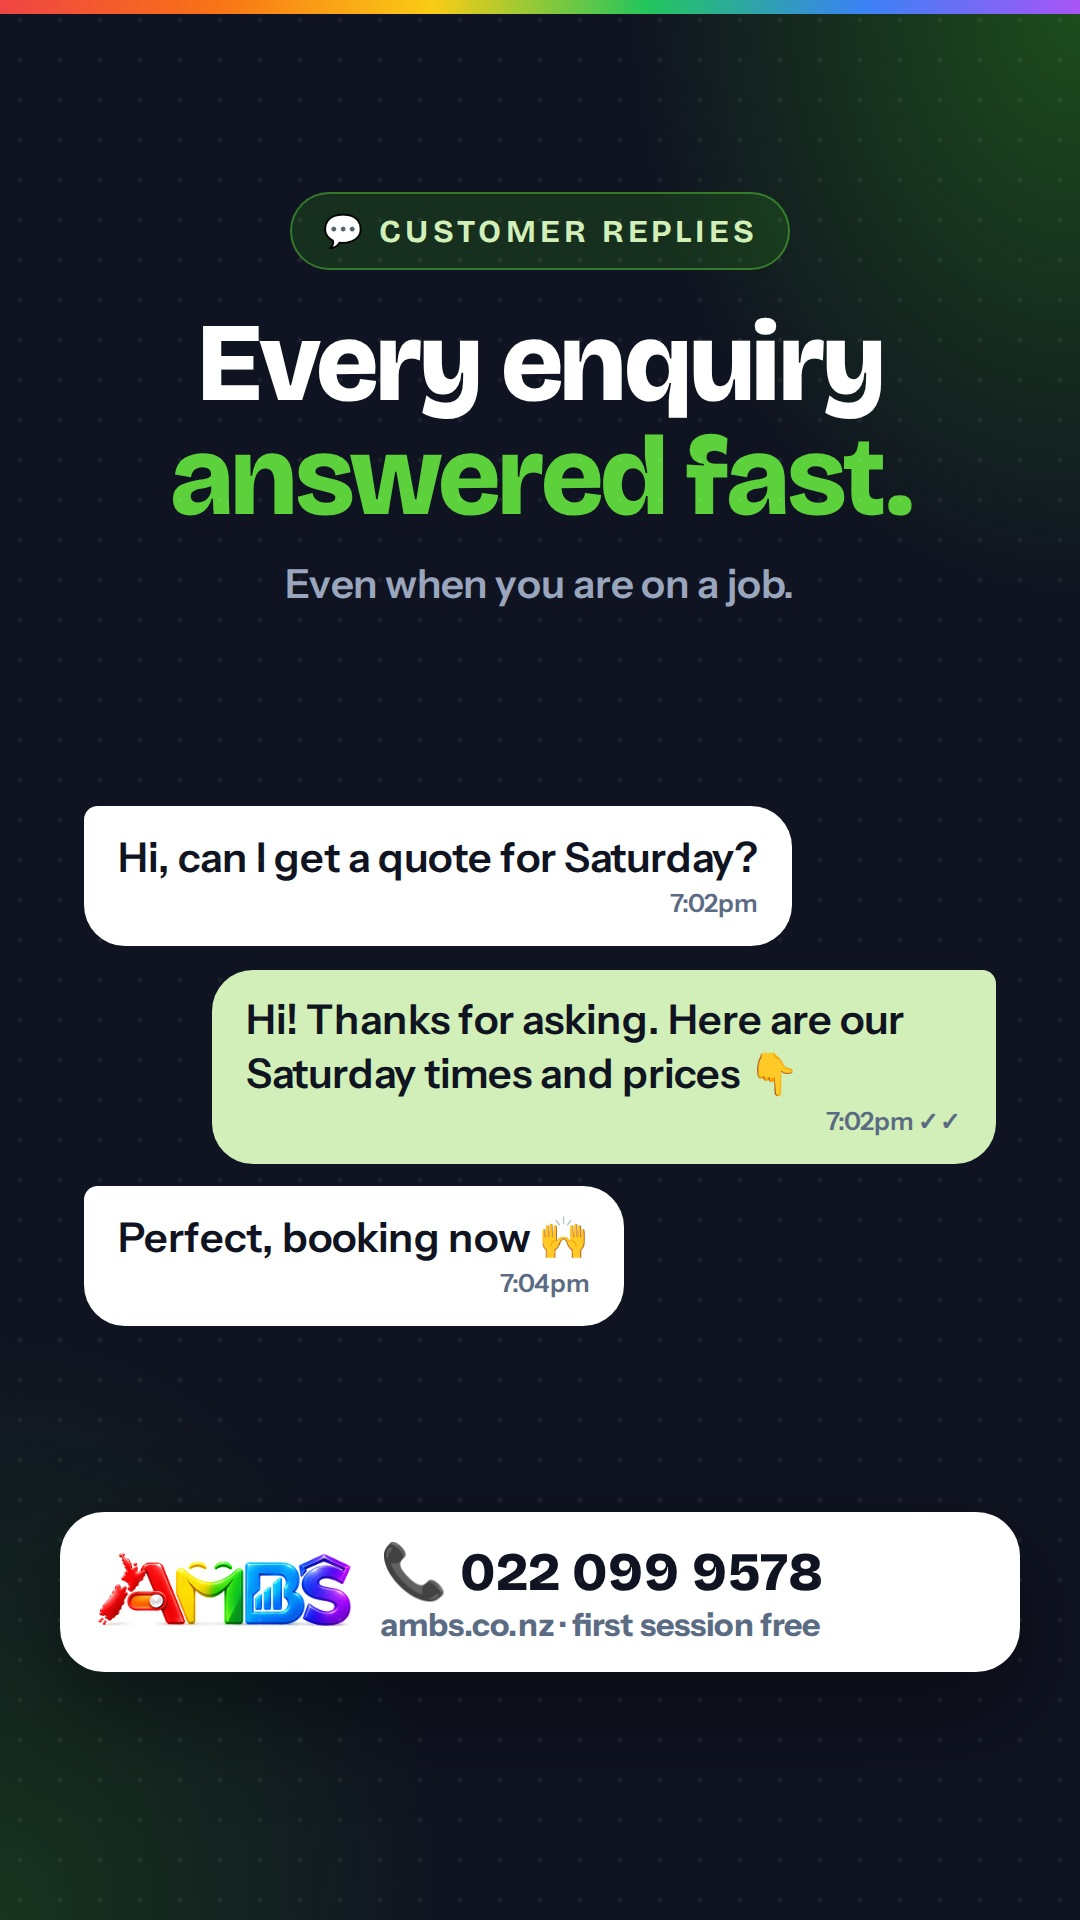
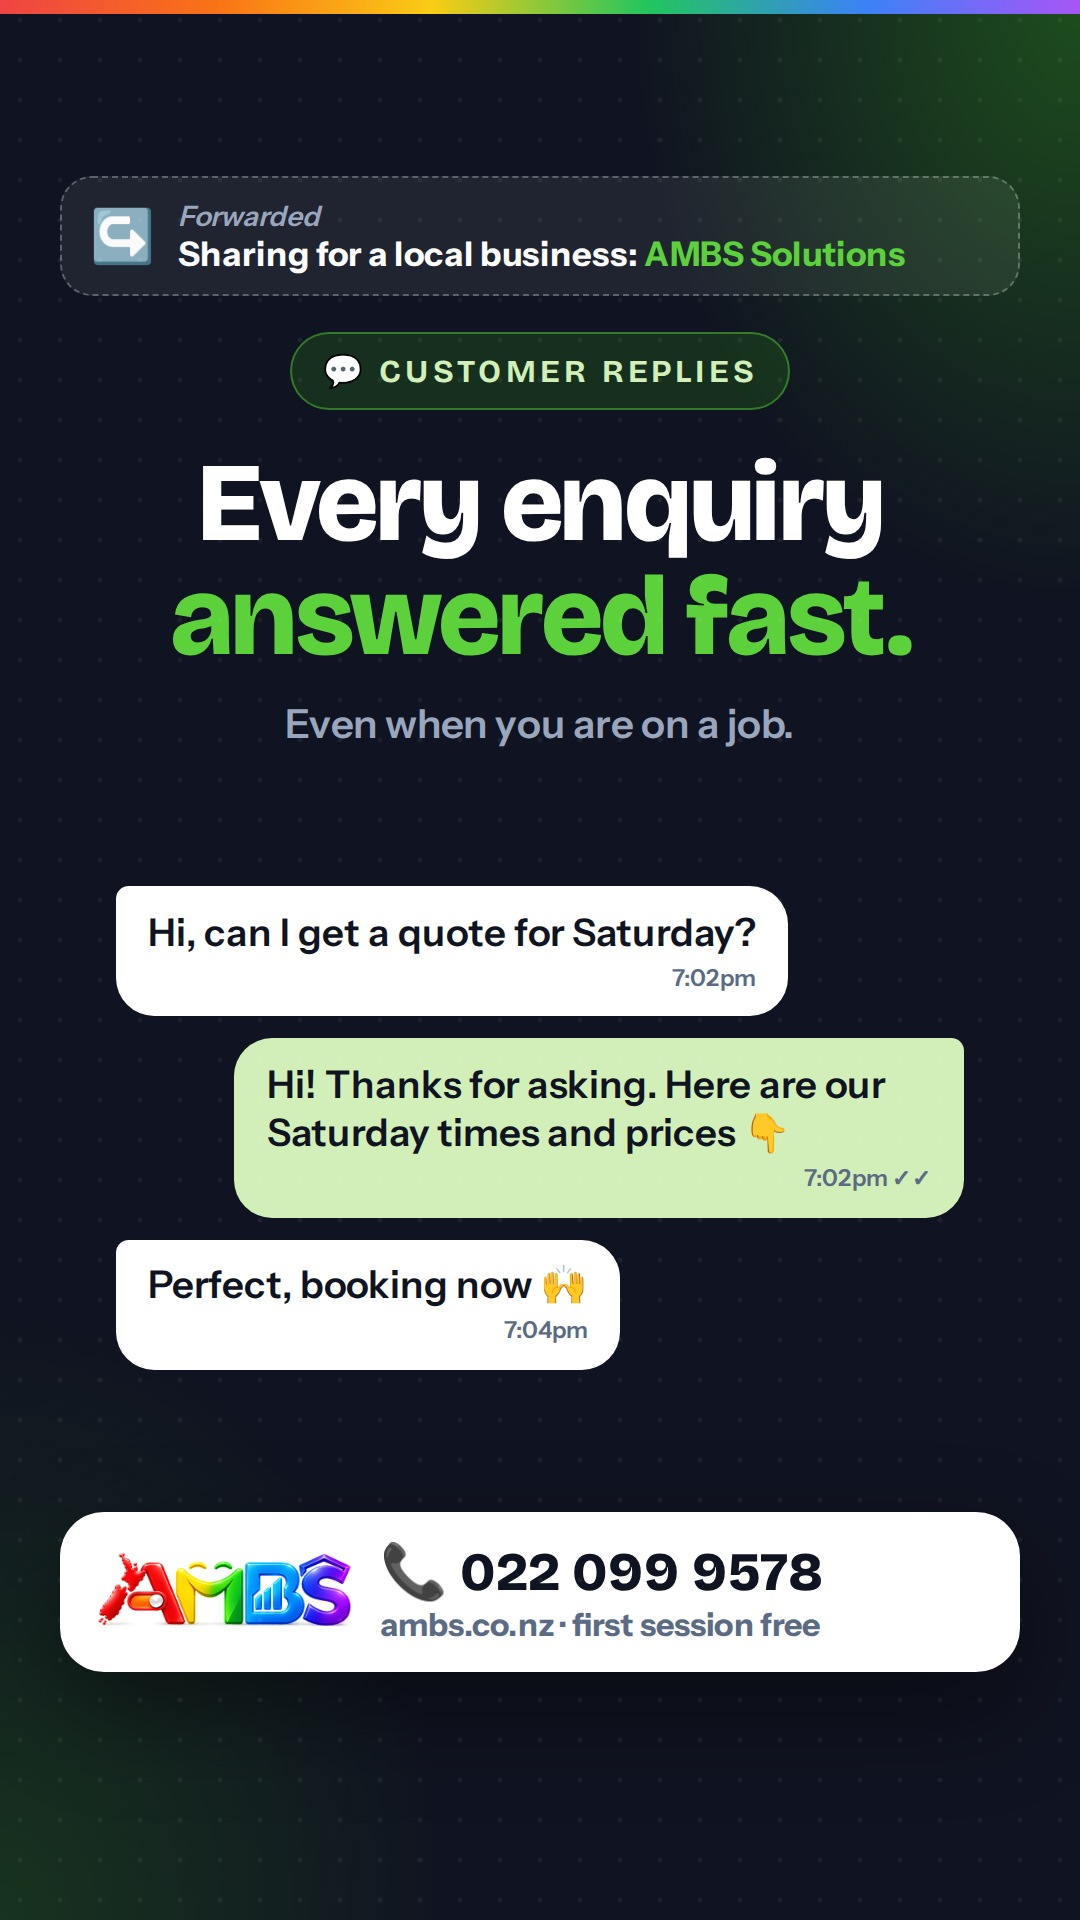
Service statuses: add 'Forwarded · sharing for a local business' label
Claude-Session: https://claude.ai/code/session_01UEFq6Row7p6wmTAvf3EyaN

Changed region(s): [[0.0611, 0.375, 0.9472, 0.7188], [0.0611, 0.0938, 0.8556, 0.3438]]

diff --git a/marketing-videos/posters/_svc.css b/marketing-videos/posters/_svc.css
@@ -13,3 +13,13 @@ h1 { margin-top: 18px; font-size: 56px; }
 .mock { background: #fff; color: var(--ink); border-radius: 20px; box-shadow: 0 18px 44px rgba(0,0,0,.45); text-align: left; }
 .ok { color: #1f6b10; background: var(--soft); font-weight: 700; border-radius: 999px; padding: 4px 10px; font-size: 13px; white-space: nowrap; }
 .vis > * { zoom: 1.14; } .vis > .ph { zoom: 1.04; }
+/* "Forwarded" label like WhatsApp's own, so it is clear the sharer is passing on another business's message */
+#frame { padding-top: 88px; }
+.fwd { width: 100%; display: flex; align-items: center; gap: 12px; padding: 10px 14px; border-radius: 16px; background: rgba(255,255,255,.07);
+  border: 1px dashed rgba(255,255,255,.28); text-align: left; margin-bottom: 18px; }
+.fwd .ar { font-size: 26px; color: var(--mu); line-height: 1; }
+.fwd i { display: block; font-size: 14px; color: var(--mu); font-weight: 600; }
+.fwd b { display: block; font-size: 17px; font-weight: 700; color: #fff; }
+.fwd b span { color: var(--gl); }
+.vis { margin-top: 18px; }
+.vis > * { zoom: 1.06; } .vis > .ph { zoom: .96; }

diff --git a/marketing-videos/posters/21c-svc-bookings.html b/marketing-videos/posters/21c-svc-bookings.html
@@ -12,6 +12,7 @@
 <div id="frame">
   <div class="stripe"></div>
 
+  <div class="fwd"><div class="ar">↪</div><div><i>Forwarded</i><b>Sharing for a local business: <span>AMBS Solutions</span></b></div></div>
   <div class="pill hd">📅 BOOKINGS &amp; REMINDERS</div>
   <h1 class="hd">Bookings in.<br><em>Fewer no‑shows.</em></h1>
   <div class="lead">Customers book online. Reminders go out on their own.</div>

diff --git a/marketing-videos/posters/21b-svc-invoices.html b/marketing-videos/posters/21b-svc-invoices.html
@@ -11,6 +11,7 @@
 <div id="frame">
   <div class="stripe"></div>
 
+  <div class="fwd"><div class="ar">↪</div><div><i>Forwarded</i><b>Sharing for a local business: <span>AMBS Solutions</span></b></div></div>
   <div class="pill hd">🧾 QUOTES &amp; INVOICES</div>
   <h1 class="hd">Invoices that <em>send themselves.</em></h1>
   <div class="lead">Created, sent and followed up automatically.</div>

diff --git a/marketing-videos/posters/21e-svc-apps.html b/marketing-videos/posters/21e-svc-apps.html
@@ -10,6 +10,7 @@
 <div id="frame">
   <div class="stripe"></div>
 
+  <div class="fwd"><div class="ar">↪</div><div><i>Forwarded</i><b>Sharing for a local business: <span>AMBS Solutions</span></b></div></div>
   <div class="pill hd">📱 STAFF &amp; CUSTOMER APPS</div>
   <h1 class="hd">Your own app on <em>every phone.</em></h1>
   <div class="lead">Jobs, photos and approvals in one place.</div>

diff --git a/marketing-videos/posters/21a-svc-websites.html b/marketing-videos/posters/21a-svc-websites.html
@@ -14,6 +14,7 @@
 <div id="frame">
   <div class="stripe"></div>
 
+  <div class="fwd"><div class="ar">↪</div><div><i>Forwarded</i><b>Sharing for a local business: <span>AMBS Solutions</span></b></div></div>
   <div class="pill hd">🌐 WEBSITES</div>
   <h1 class="hd">A website that <em>brings in calls.</em></h1>
   <div class="lead">Fast, works on every phone, easy to find.</div>

diff --git a/marketing-videos/posters/21f-svc-dashboards.html b/marketing-videos/posters/21f-svc-dashboards.html
@@ -13,6 +13,7 @@
 <div id="frame">
   <div class="stripe"></div>
 
+  <div class="fwd"><div class="ar">↪</div><div><i>Forwarded</i><b>Sharing for a local business: <span>AMBS Solutions</span></b></div></div>
   <div class="pill hd">📊 LIVE DASHBOARDS</div>
   <h1 class="hd">Your numbers, <em>every week.</em></h1>
   <div class="lead">No more copying into spreadsheets.</div>

diff --git a/marketing-videos/posters/21d-svc-replies.html b/marketing-videos/posters/21d-svc-replies.html
@@ -10,6 +10,7 @@
 <div id="frame">
   <div class="stripe"></div>
 
+  <div class="fwd"><div class="ar">↪</div><div><i>Forwarded</i><b>Sharing for a local business: <span>AMBS Solutions</span></b></div></div>
   <div class="pill hd">💬 CUSTOMER REPLIES</div>
   <h1 class="hd">Every enquiry <em>answered fast.</em></h1>
   <div class="lead">Even when you are on a job.</div>
